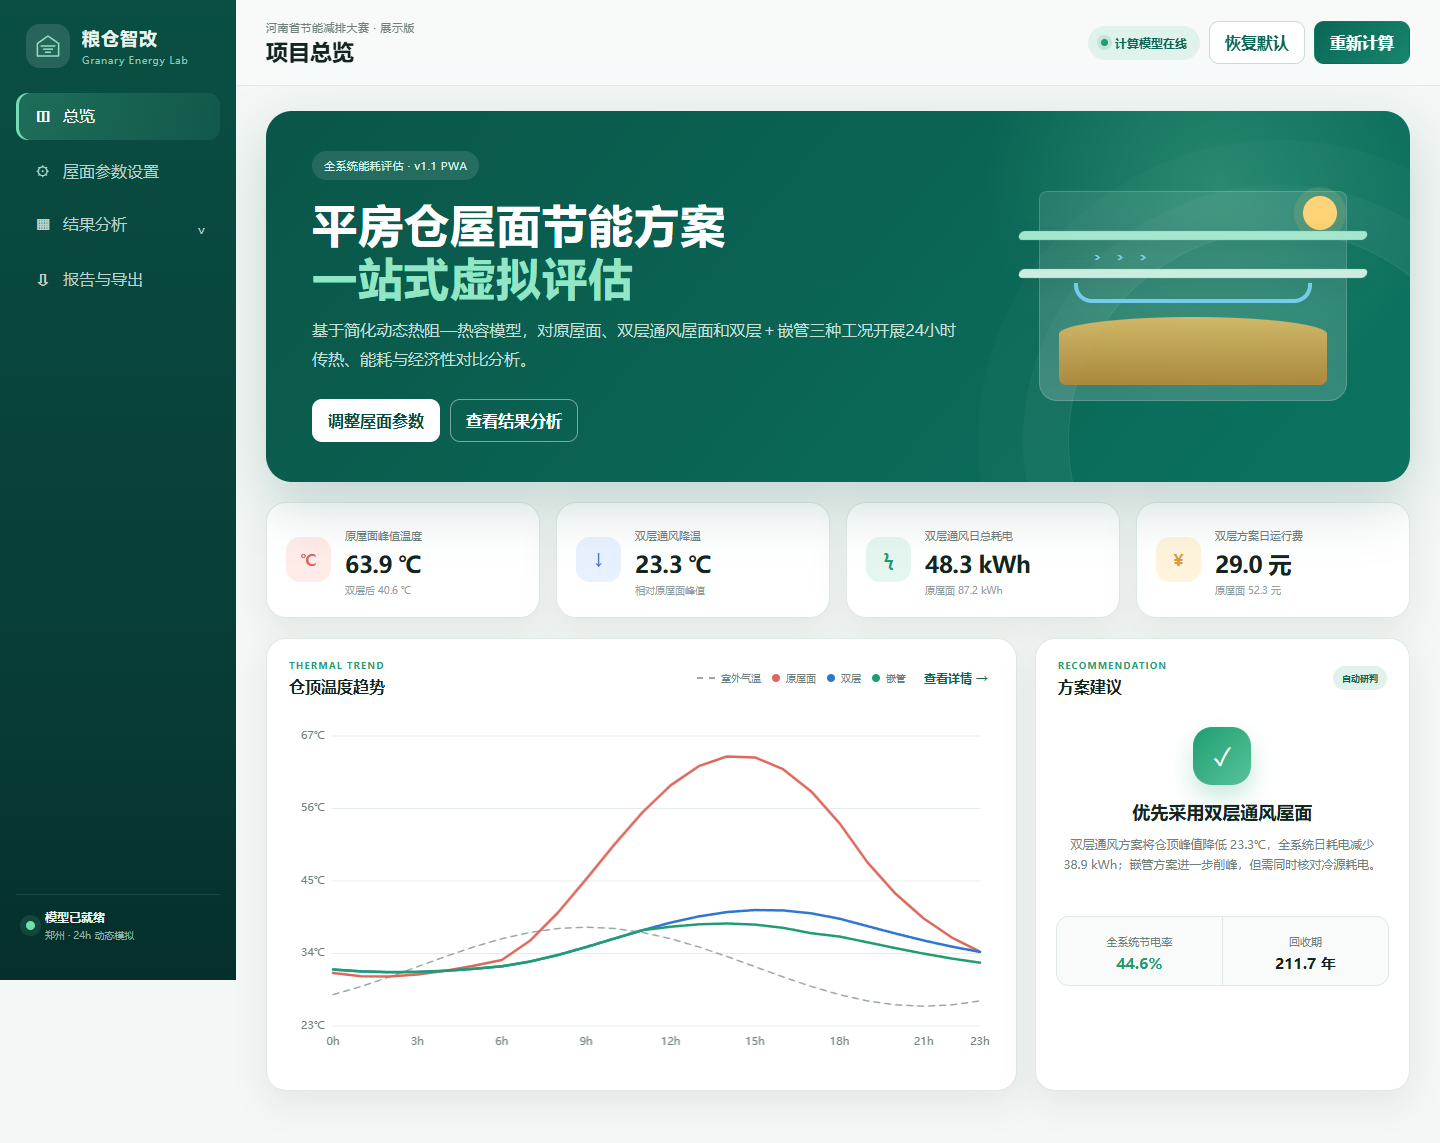
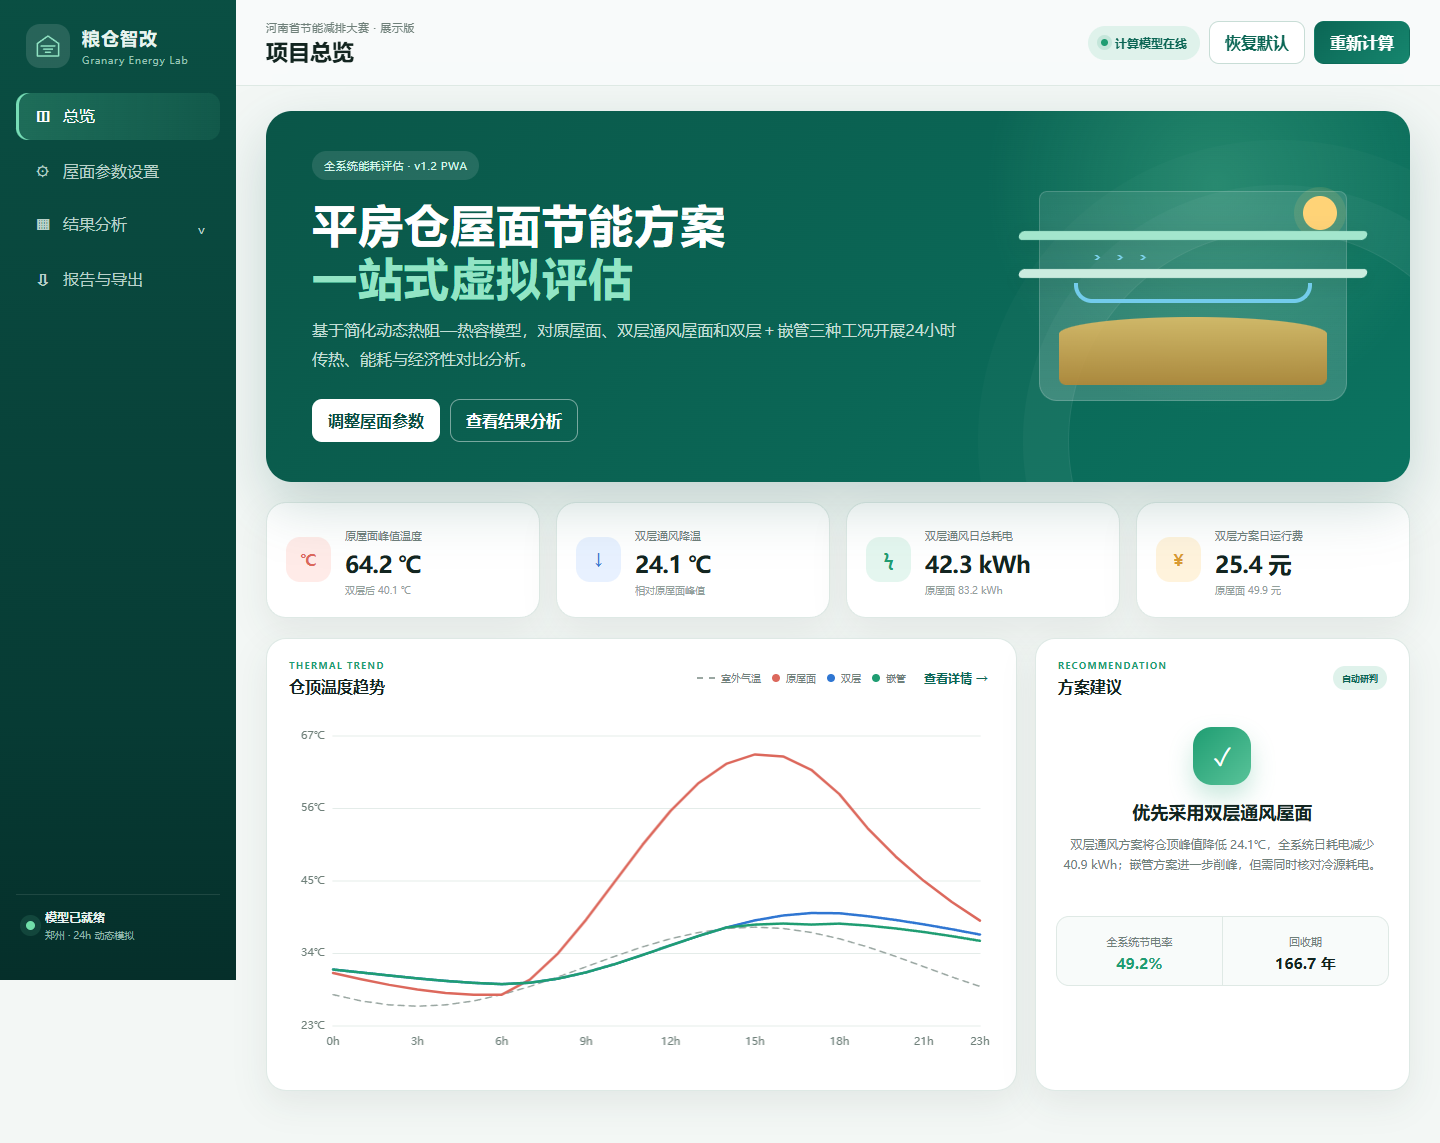
fix: correct daily outdoor temperature phase

diff --git a/model.js b/model.js
@@ -42,12 +42,14 @@
   const STEP = 3600.0;
 
   function zhengzhouWeather(hour) {
-    // 保留 Python 原版公式，不在 Web 迁移中改变模型口径。
+    // 与“粮仓智改15.py”保持一致：最低气温在3:00、最高气温在15:00。
+    // 气温峰值晚于太阳辐射峰值，体现室外环境的热惯性。
     const tmax = 38.0;
     const tmin = 26.0;
     const tvalley = 3.0;
     const temperature = (tmax + tmin) / 2.0
-      + (tmax - tmin) / 2.0 * Math.sin(Math.PI * (hour - tvalley) / 12.0);
+      + (tmax - tmin) / 2.0
+        * Math.sin(Math.PI * (hour - tvalley) / 12.0 - Math.PI / 2.0);
     let radiation = 0.0;
     if (hour >= 6.0 && hour <= 19.0) {
       radiation = 850.0 * Math.sin(Math.PI * (hour - 6.0) / 13.0);

diff --git a/index.html b/index.html
@@ -64,7 +64,7 @@
         <section class="page active" id="page-dashboard" data-page="dashboard">
           <div class="hero-card">
             <div class="hero-copy">
-              <span class="pill">全系统能耗评估 · v1.1 PWA</span>
+              <span class="pill">全系统能耗评估 · v1.2 PWA</span>
               <h2>平房仓屋面节能方案<br><em>一站式虚拟评估</em></h2>
               <p>基于简化动态热阻—热容模型，对原屋面、双层通风屋面和双层＋嵌管三种工况开展24小时传热、能耗与经济性对比分析。</p>
               <div class="hero-actions">

diff --git a/service-worker.js b/service-worker.js
@@ -1,4 +1,4 @@
-const CACHE_NAME = "granary-smart-pwa-v2";
+const CACHE_NAME = "granary-smart-pwa-v3-weather-phase";
 const APP_SHELL = [
   "./",
   "./index.html",

diff --git a/verification_report.md b/verification_report.md
@@ -1,37 +1,41 @@
 # Web/PWA修正版验证记录
 
-验证日期：2026-08-26
+验证日期：2026-09-02
 
 ## 默认参数结果
 
-热工过程沿用原模型；耗电分解参考 `粮仓智改14.py`，节电率统一改为全系统实际耗电口径。
+热工过程沿用原模型；室外气温相位与 `粮仓智改15.py` 对齐，最低温为3:00、最高温为15:00；耗电分解参考 `粮仓智改14.py`，节电率采用全系统实际耗电口径。
 
 | 指标 | 修正版结果 |
 |---|---:|
-| 原屋面累计传入热量(kWh) | 217.928281 |
-| 双层累计传入热量(kWh) | 80.136625 |
-| 嵌管累计传入热量(kWh) | 65.261974 |
-| 原屋面仓内制冷耗电(kWh) | 87.171312 |
-| 双层仓内制冷耗电(kWh) | 32.054650 |
-| 嵌管方案仓内制冷耗电(kWh) | 26.104790 |
+| 室外气温最低值及时刻 | 26.000000℃，3:00 |
+| 室外气温最高值及时刻 | 38.000000℃，15:00 |
+| 原屋面累计传入热量(kWh) | 207.969109 |
+| 双层累计传入热量(kWh) | 65.164101 |
+| 嵌管累计传入热量(kWh) | 58.435763 |
+| 原屋面仓内制冷耗电(kWh) | 83.187644 |
+| 双层仓内制冷耗电(kWh) | 26.065641 |
+| 嵌管方案仓内制冷耗电(kWh) | 23.374305 |
 | 双层风机耗电(kWh) | 16.200000 |
 | 嵌管方案风机耗电(kWh) | 16.200000 |
-| 嵌管水泵耗电(kWh) | 9.000000 |
-| 嵌管冷源耗电(kWh) | 77.754666 |
-| 原屋面日总耗电(kWh) | 87.171312 |
-| 双层日总耗电(kWh) | 48.254650 |
-| 嵌管日总耗电(kWh) | 129.059455 |
-| 双层全系统节电率(%) | 44.643887 |
-| 嵌管全系统节电率(%) | -48.052670 |
-| 原屋面峰值温度(℃) | 63.891951 |
-| 双层峰值温度(℃) | 40.595154 |
-| 嵌管峰值温度(℃) | 38.553887 |
+| 嵌管水泵耗电(kWh) | 4.500000 |
+| 嵌管冷源耗电(kWh) | 39.209532 |
+| 原屋面日总耗电(kWh) | 83.187644 |
+| 双层日总耗电(kWh) | 42.265641 |
+| 嵌管日总耗电(kWh) | 83.283837 |
+| 双层全系统节电率(%) | 49.192406 |
+| 嵌管全系统节电率(%) | -0.115634 |
+| 原屋面峰值温度(℃) | 64.207727 |
+| 双层峰值温度(℃) | 40.141306 |
+| 嵌管峰值温度(℃) | 38.545549 |
+| 嵌管运行时间(h) | 3 |
 
 ## 验证结果
 
 以下项目已通过自动校验与本机Edge浏览器实测：
 
 - 模型默认值与分项加和关系；
+- 室外气温最低/最高时刻与 `粮仓智改15.py` 一致；
 - 双层与嵌管方案风机耗电相等；
 - 全系统节电率公式与正负号；
 - 桌面端“结果分析”分级菜单；

diff --git a/README.md b/README.md
@@ -1,6 +1,6 @@
-# 粮仓智改 Web/PWA 展示版（全系统能耗修正版）
+# 粮仓智改 Web/PWA 展示版（气温相位与全系统能耗修正版）
 
-这是从 `软件8.24/粮仓智改10.py` 独立迁移出的响应式网页版本，并结合老师修改意见与 `粮仓智改14.py` 的耗电分解思路完成修正。原 Python 文件没有被覆盖。
+这是从 Python 桌面版独立迁移出的响应式网页版本，并结合老师修改意见、`粮仓智改14.py` 的耗电分解思路和 `粮仓智改15.py` 的室外气温相位修正完成更新。原 Python 文件没有被覆盖。
 
 ## 界面预览
 
@@ -12,15 +12,7 @@
 
 ### 电脑快速打开
 
-双击 `run_web_app.bat`，浏览器会打开：
-
-```text
-http://localhost:8080
-```
-
-启动后会保留一个最小化的 `Granary Web Server` 窗口；关闭该窗口后，本地网页服务停止。
-
-也可以直接双击 `index.html` 查看主要功能；但浏览器的“安装应用”和离线缓存功能需要通过 `http://localhost` 或正式 HTTPS 链接访问。
+直接访问正式 HTTPS 地址即可。也可以双击 `index.html` 查看主要功能；但浏览器的“安装应用”和离线缓存功能需要通过本地网页服务或正式 HTTPS 链接访问。
 
 ### 手机打开
 
@@ -39,10 +31,11 @@ http://localhost:8080
 
 ## 本次模型修正
 
+- 室外气温采用最低温3:00、最高温15:00的24小时简化曲线，修正原公式最高温出现在9:00的相位错误；
 - 三种工况的仓内制冷耗电均按“屋面累计传入热量÷仓内制冷COP”估算；
 - 日总耗电统一为“仓内制冷耗电＋屋面设备耗电”；
 - 节电量和节电率统一由各方案日总耗电相对原屋面计算，不再混用热量与电量；
-- 默认参数下，双层通风节电率约44.6%，双层＋嵌管耗电增加约48.1%；
+- 默认参数下，双层通风节电率约49.2%，双层＋嵌管耗电增加约0.1%；
 - 经济性继续按照全系统日运行费用计算。
 
 模型仍属于比赛展示用简化模型；仓内制冷负荷尚未计入墙体、渗透、设备和粮食呼吸等全部热源。
@@ -57,6 +50,5 @@ app.js                  页面交互、图表与导出
 manifest.webmanifest    PWA应用信息
 service-worker.js       离线缓存
 icons/                  应用图标
-run_web_app.bat         Windows本地启动入口
 ```
 
